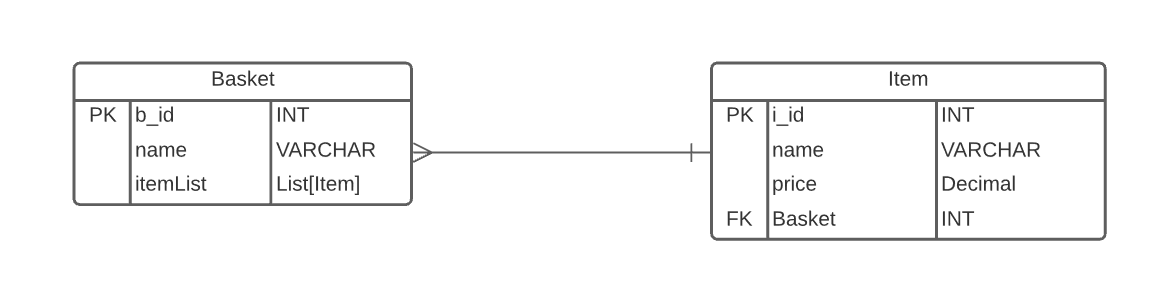
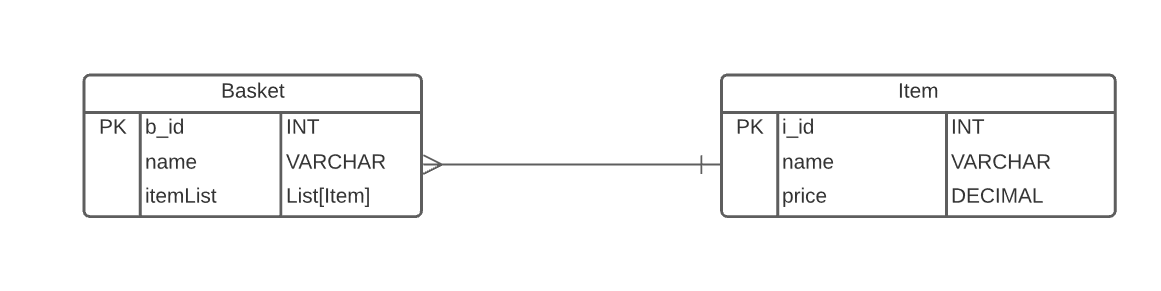
QATDL-21 Added DTO classes for objects

Changed region(s): [[0.062, 0.1856, 0.6202, 0.7732], [0.5891, 0.1856, 0.9612, 0.8351]]

diff --git a/src/main/java/com/qa/qatdl/dto/BasketDTO.java b/src/main/java/com/qa/qatdl/dto/BasketDTO.java
@@ -1,0 +1,17 @@
+package com.qa.qatdl.dto;
+
+
+import lombok.Data;
+import lombok.NoArgsConstructor;
+
+import java.util.ArrayList;
+import java.util.List;
+
+@Data
+@NoArgsConstructor
+public class BasketDTO {
+
+    private Long b_id;
+    private String name;
+    private List<ItemDTO> itemDTOList = new ArrayList<>();
+}

diff --git a/src/main/java/com/qa/qatdl/dto/ItemDTO.java b/src/main/java/com/qa/qatdl/dto/ItemDTO.java
@@ -1,0 +1,14 @@
+package com.qa.qatdl.dto;
+
+import lombok.Data;
+import lombok.NoArgsConstructor;
+
+@Data
+@NoArgsConstructor
+public class ItemDTO {
+
+    private Long i_id;
+    private String name;
+    private Float price;
+
+}
